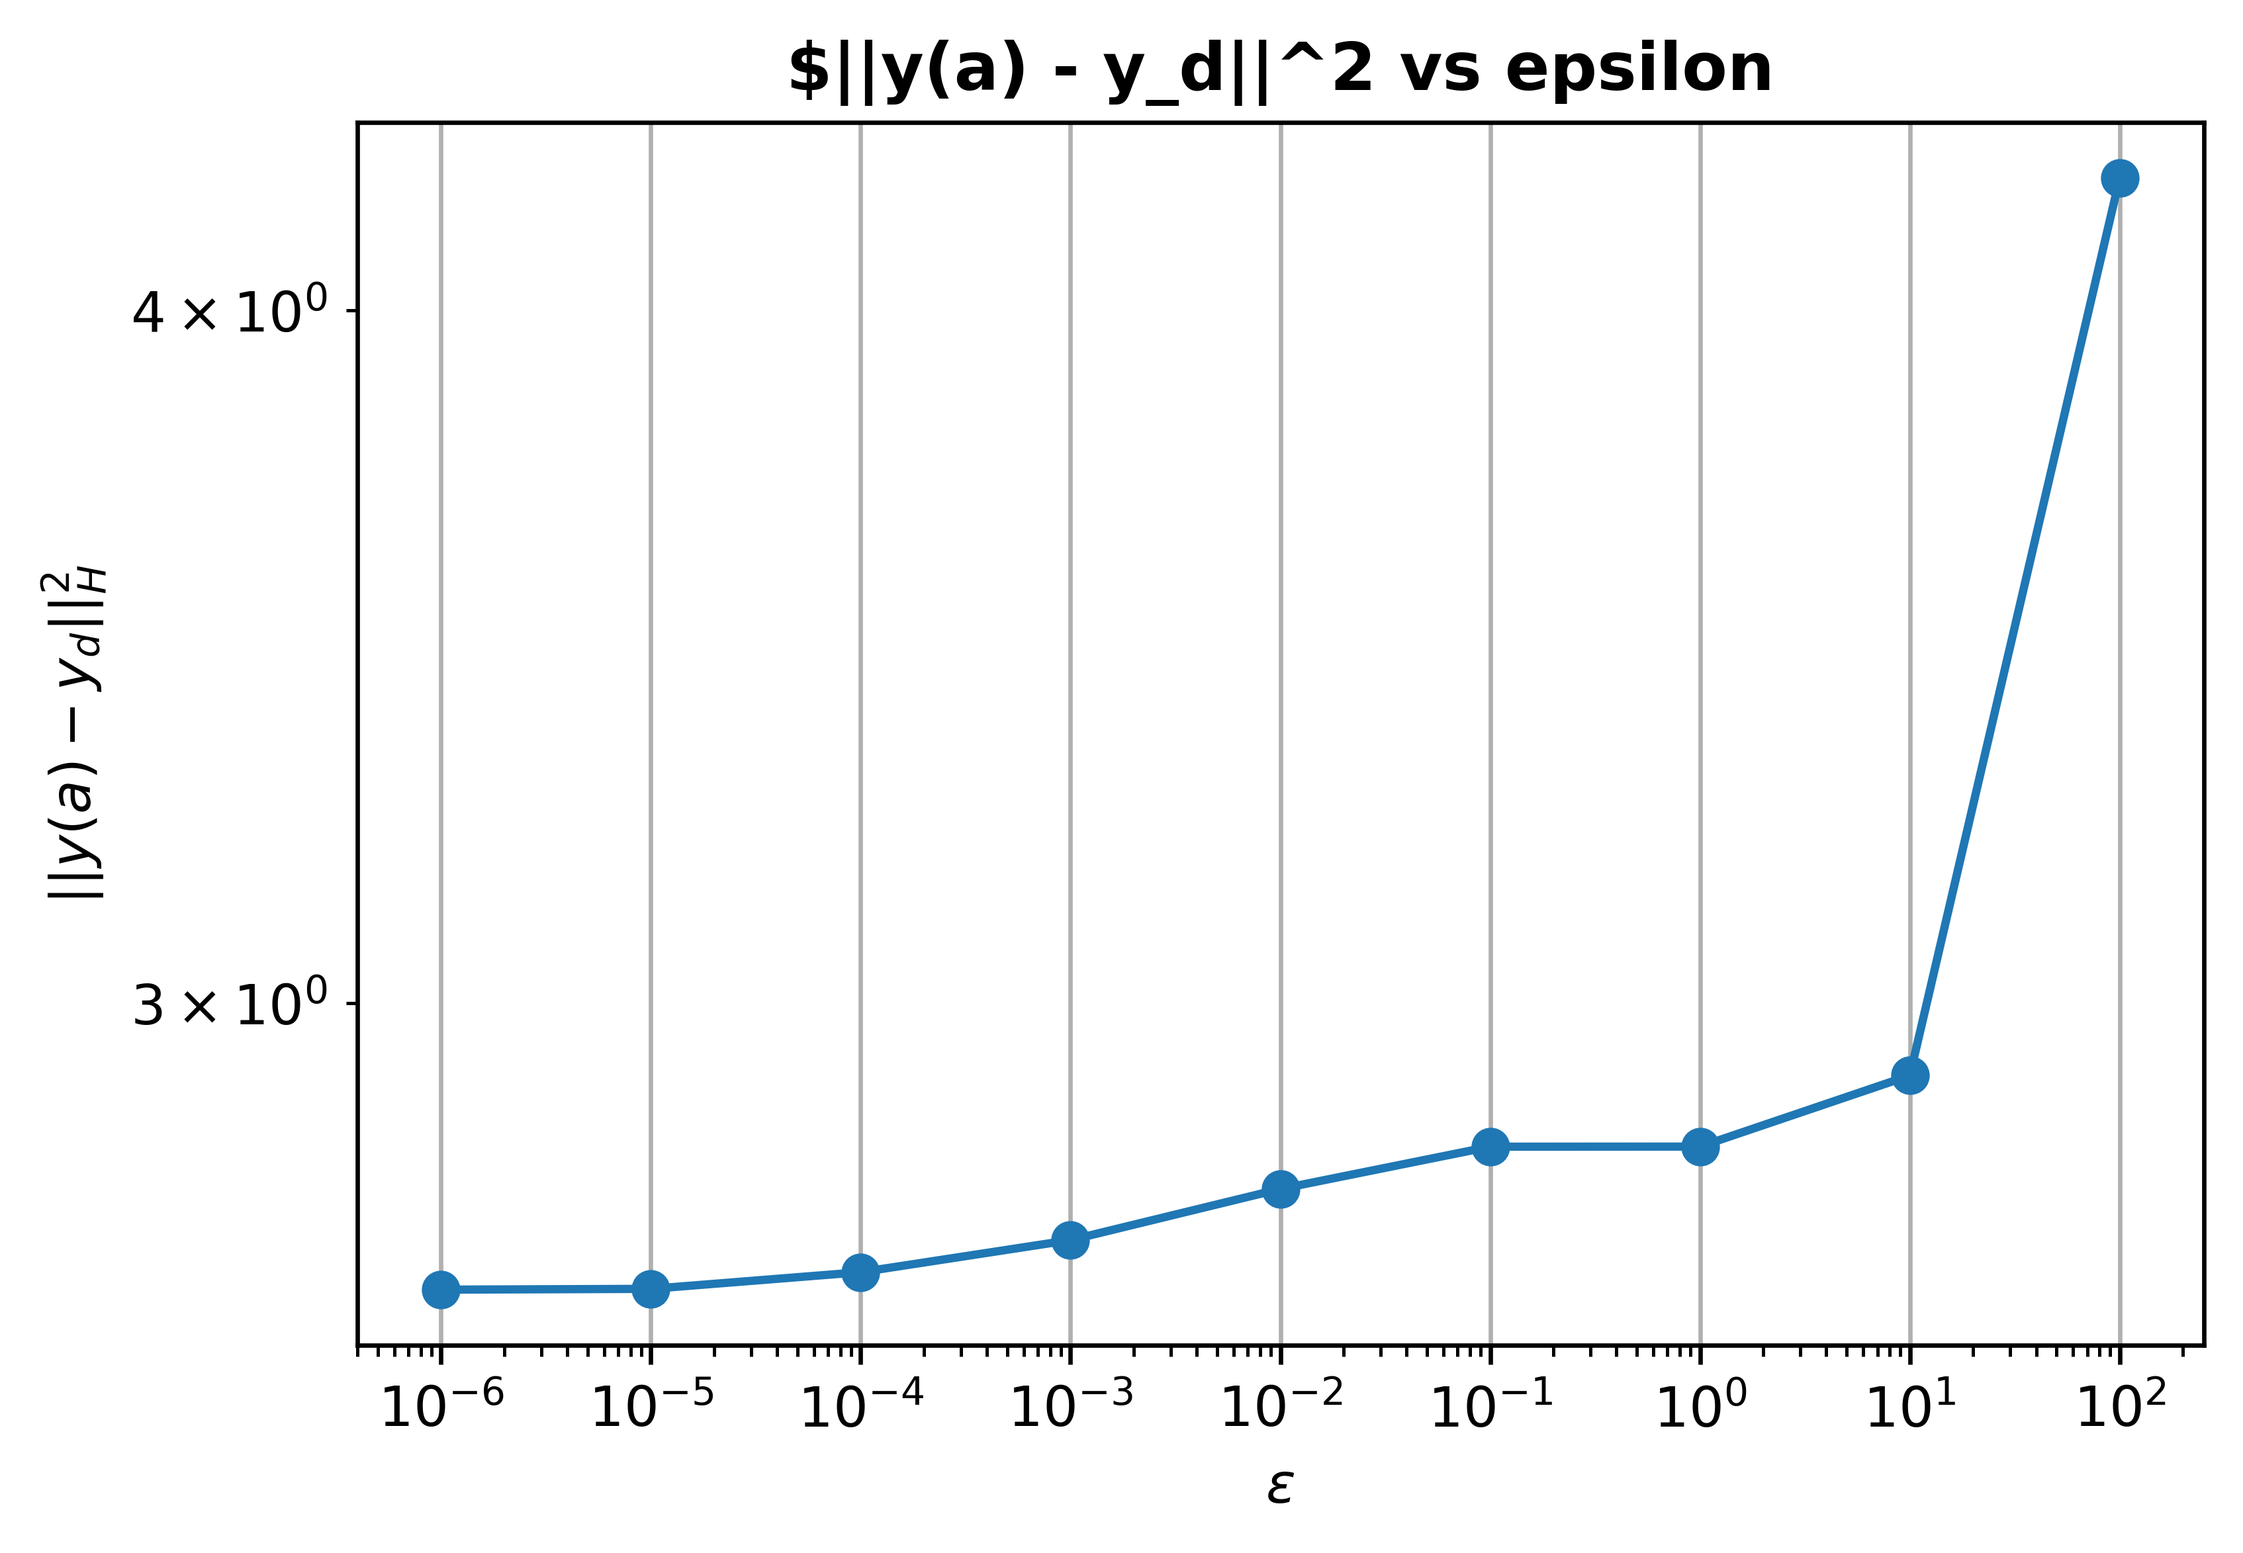
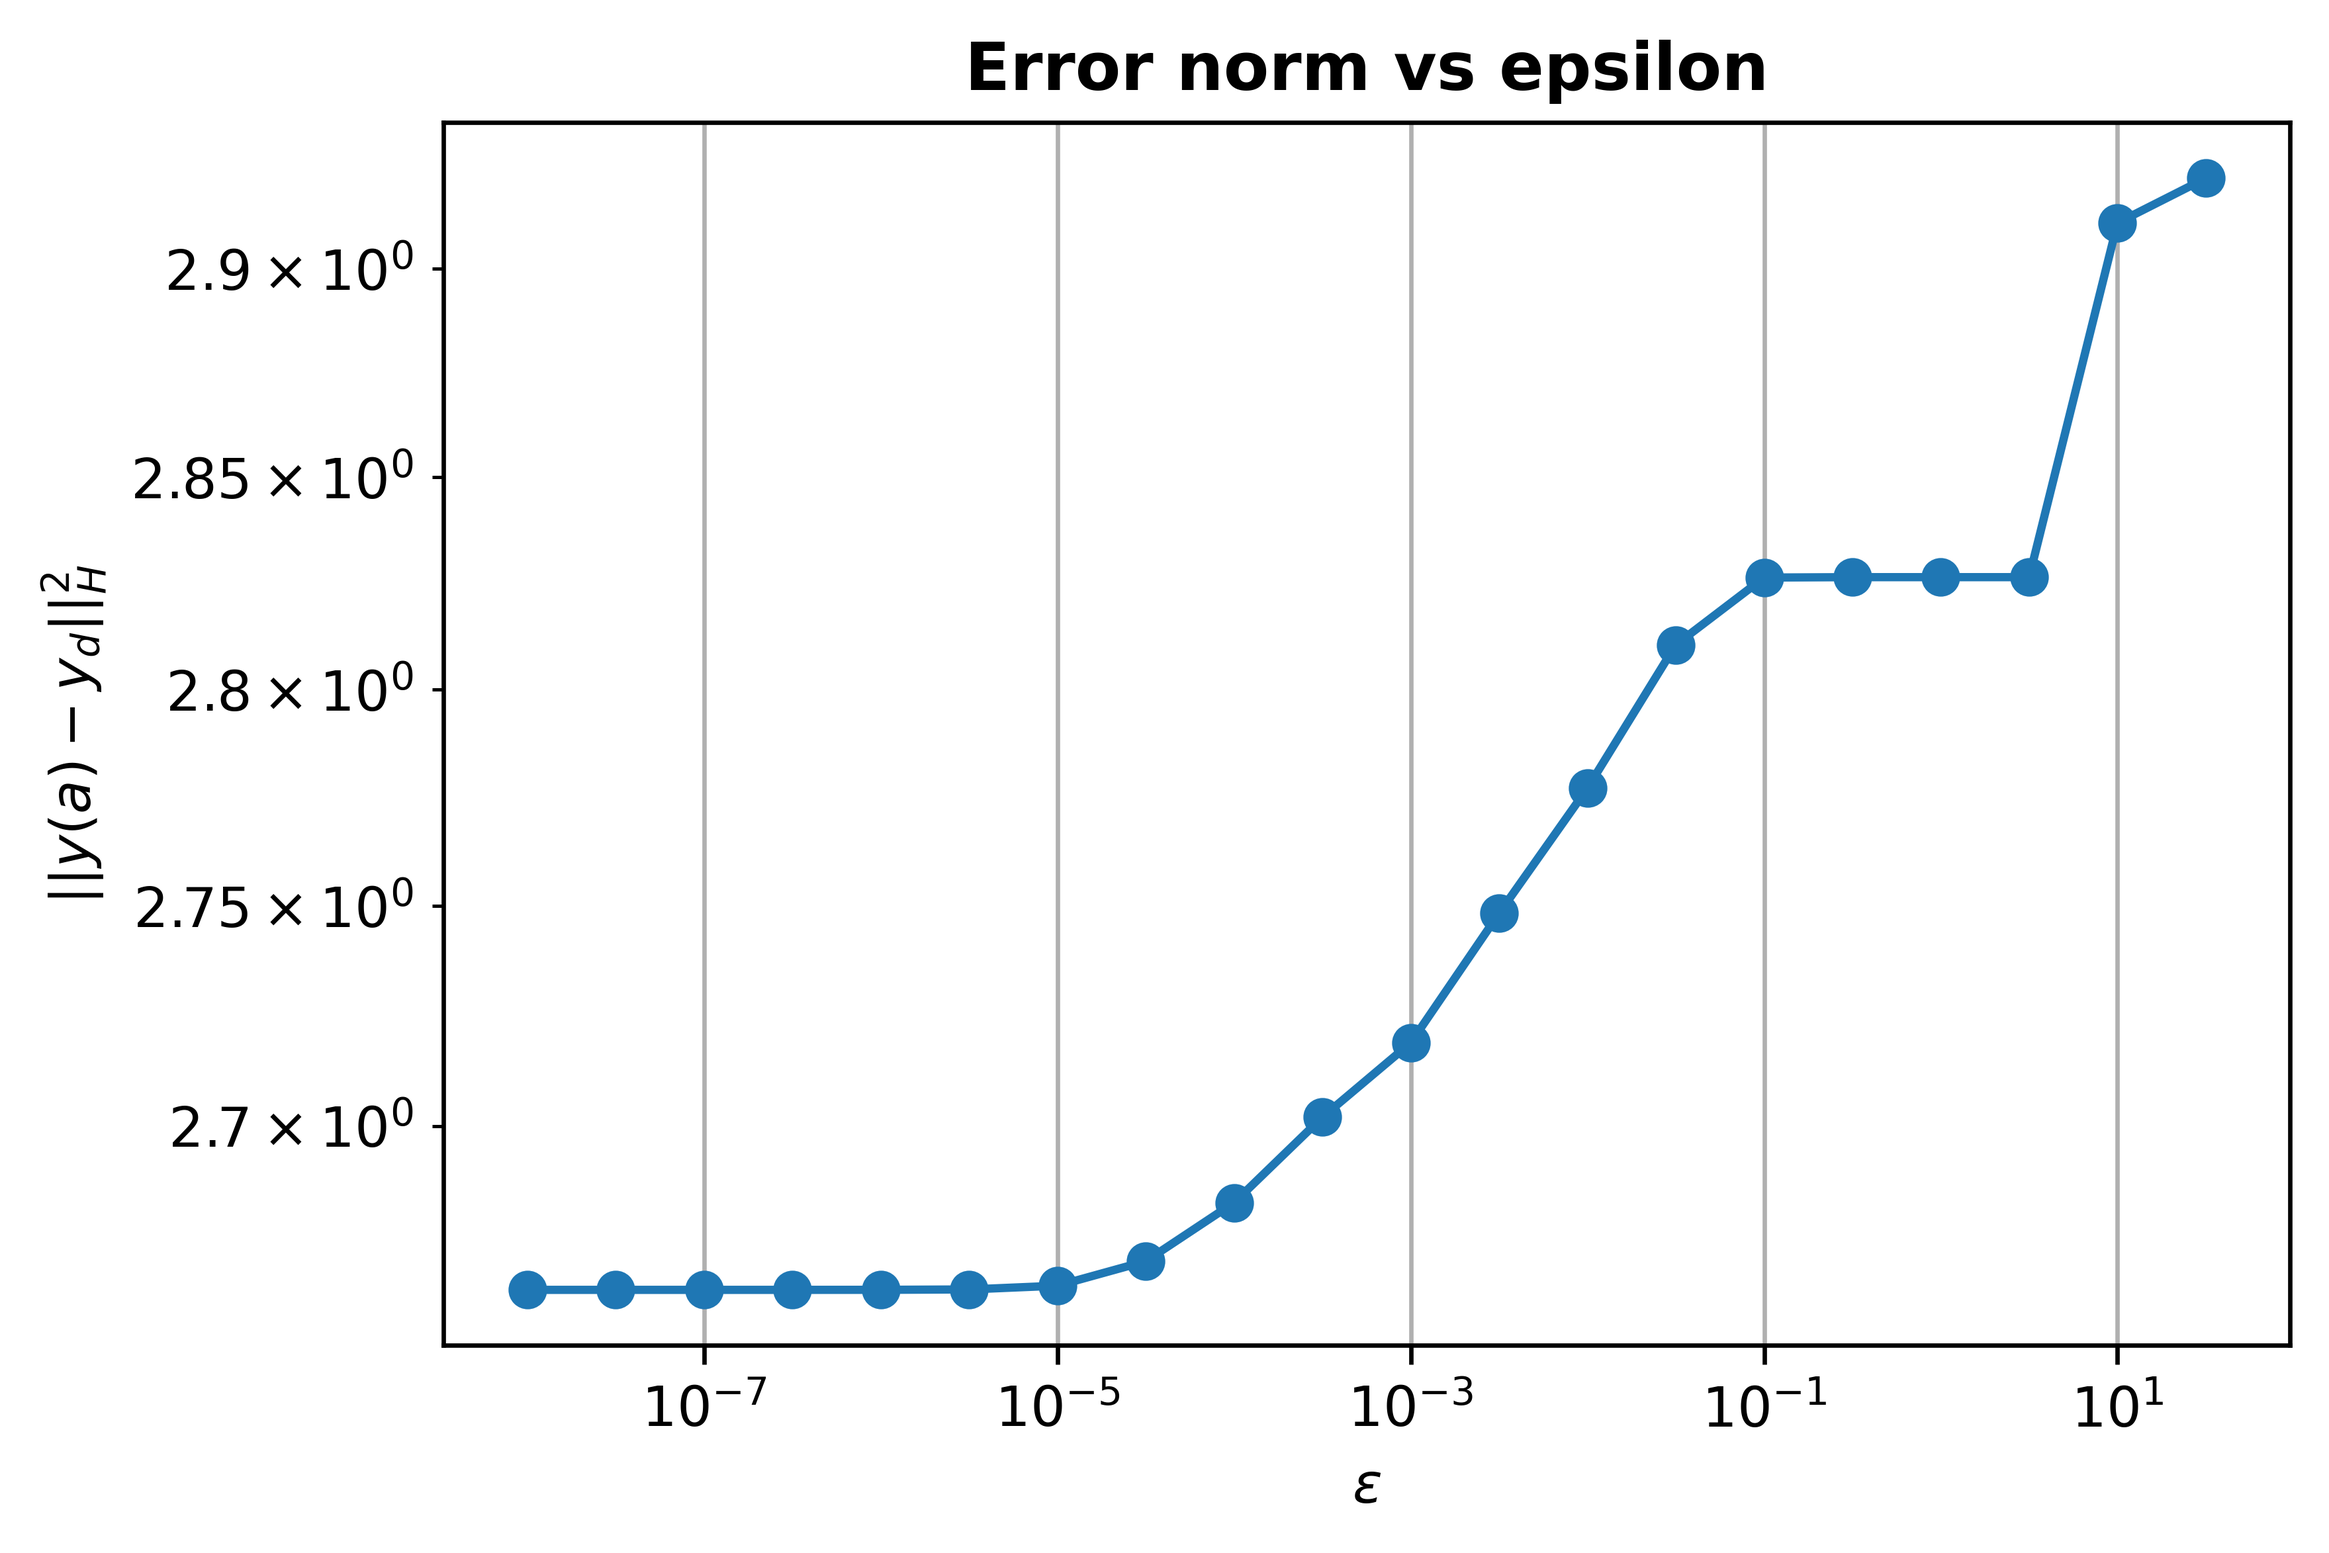
ny error plot

diff --git a/Project/Part1/part1.py b/Project/Part1/part1.py
@@ -557,8 +557,10 @@ if __name__ == "__main__":
     #### Regularization ####
     # investigate_reg_gradients()
 
-    result_reg = regularized_minimization(epsilon=1e-8, gamma=1e-6)
+    result_reg = regularized_minimization(epsilon=1e-1, gamma=1e-6)
 
-    epsilon_values = [10 ** (i) for i in range(-6, 3)]
+    epsilon_values = np.logspace(
+        -8, 1.5, 20
+    ) 
     # sweep_epsilon_values(epsilon_values, gamma=1e-6)
     plt.show()
